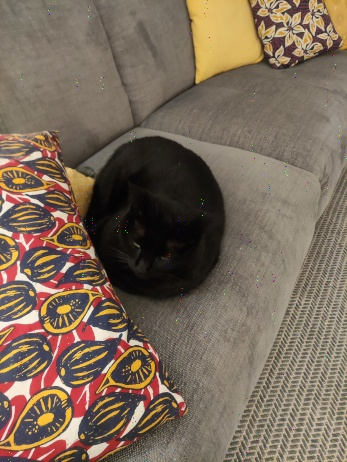
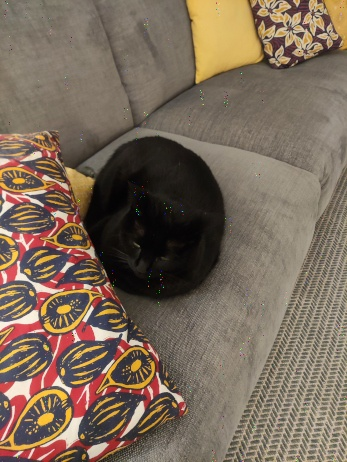
Encore plus de données + des magnifiques graphiques

Changed region(s): [[0.0288, 0.9697, 0.0576, 1.0]]

diff --git a/main.py b/main.py
@@ -277,9 +277,6 @@ def det_ir_xr(poly_lambda):
     return ir, xr
 
 def det_E(ir, xr, synds, k, t):
-    # if len(xr) < nu:
-    #     print("Le nombre d'erreur est supérieur au seuil max, on ne peut pas décoder")
-    #     exit()
     nu = len(xr)
     mat_xr = np.full((nu, nu), F256(0), dtype=F256)
     for ligne in range(nu):